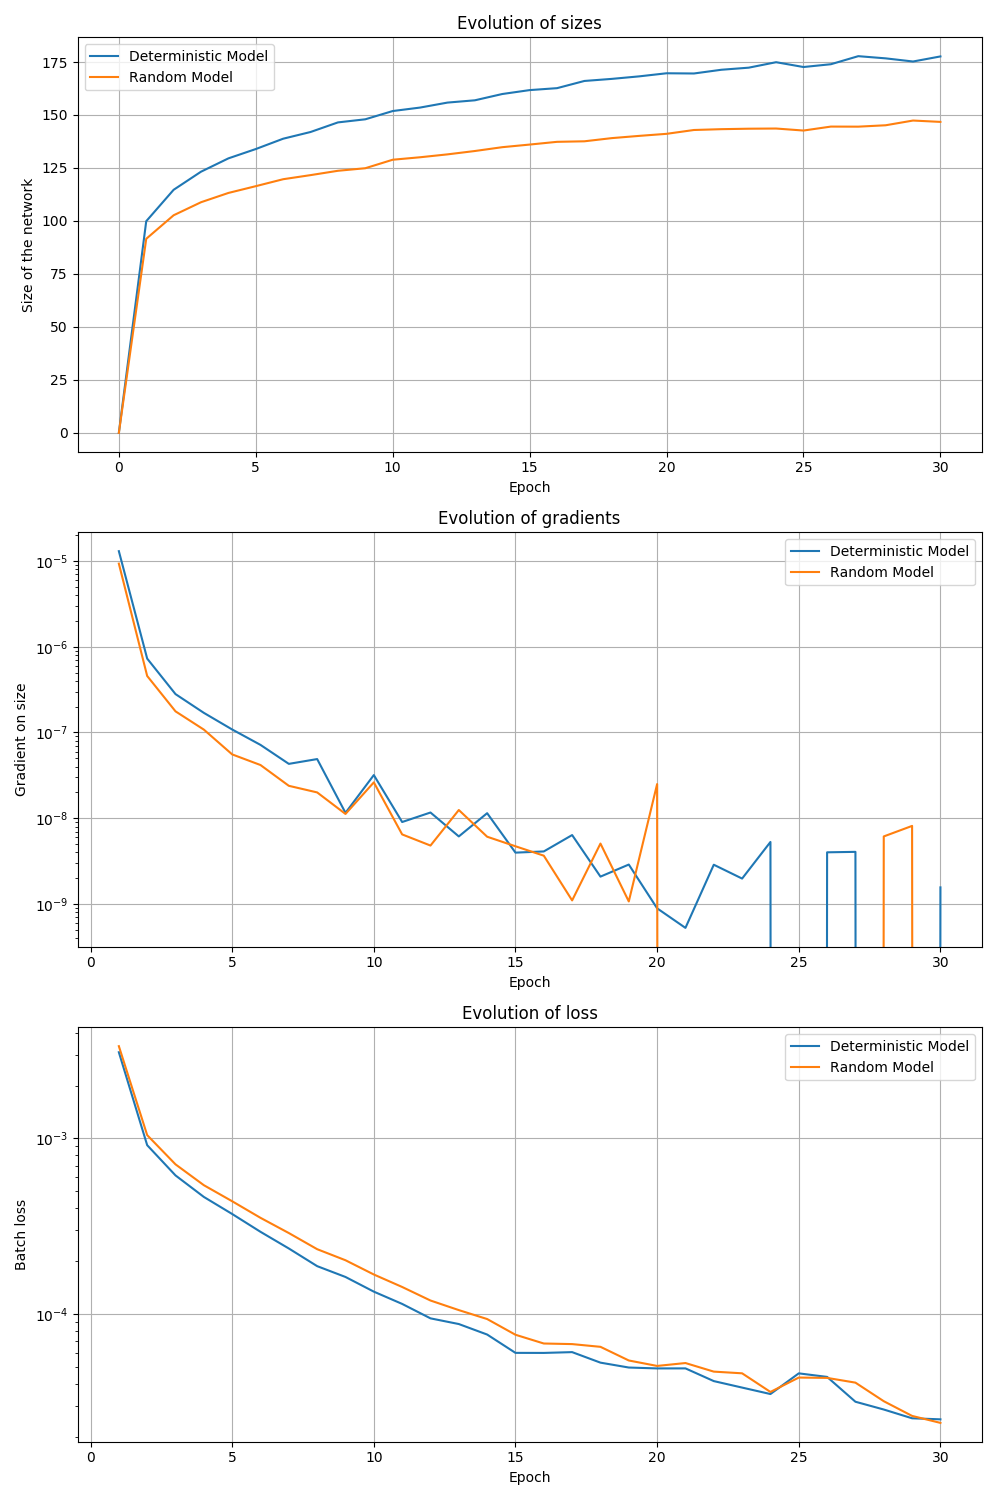
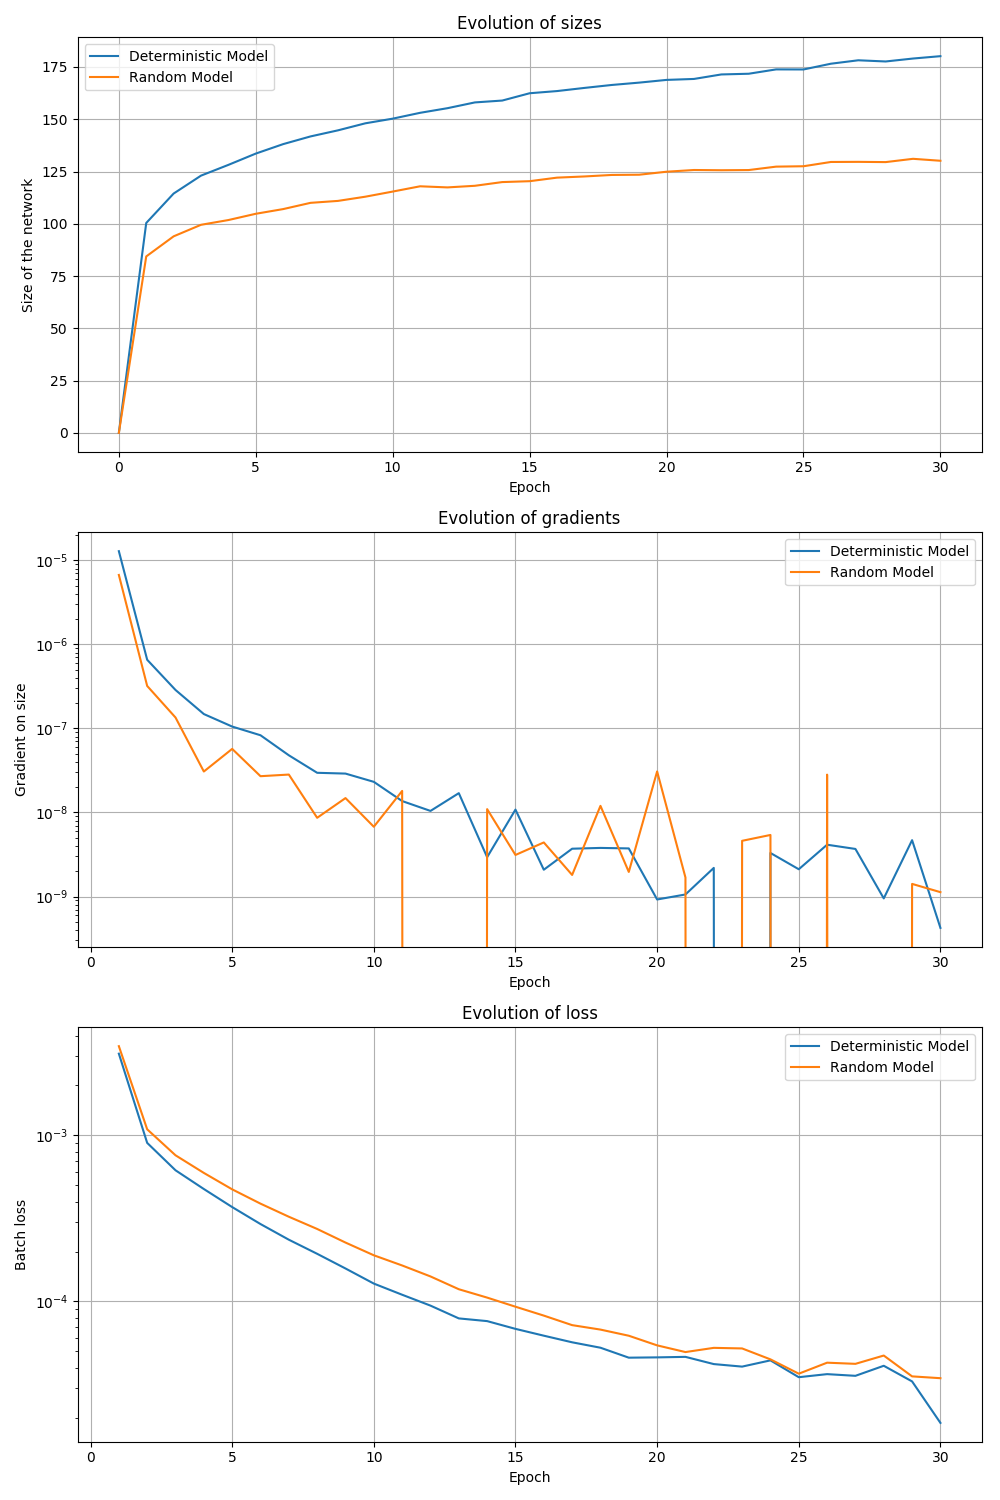
Add random comparison plots

diff --git a/simple_metricless.py b/simple_metricless.py
@@ -237,17 +237,6 @@ def benchmark_dataset(ds, l2_penalty=0.001, suffix='', test_train=False):
     simple_train([best_model], dl, EPOCHS)
     plot_frontier(powers, data, get_accuracy([best_model], dl2)[0], ds.__name__, suffix)
 
-def compare_convergence(ds):
-    dl = get_dl(ds)
-    replicas = 30
-    r = range(replicas)
-    simple_models = [MNIST_1h_flexible(500, wrap, 0).cuda() for _ in r]
-    random_models = [MNIST_1h_flexible_random(500, wrap, 0).cuda() for _ in r]
-    all_models = simple_models + random_models
-    result = train(all_models, dl, lamb=0, epochs=EPOCHS * 2, l2_penalty=0)
-    sizes, gradients, losses = [x.reshape(-1, 2, replicas).mean(axis=2).T for x in result]
-    return sizes, gradients, losses
-
 def plot_convergence_comparison(sizes, gradients, losses, prefix):
     sizes = np.insert(sizes, 0, 0, axis=1)
     epochs = list(range(1, sizes.shape[1]))
@@ -281,6 +270,18 @@ def plot_convergence_comparison(sizes, gradients, losses, prefix):
     plt.tight_layout()
     plt.savefig('./plots/%s_1h_deterministic_random_comparison.png' % prefix)
 
+def compare_convergence(ds):
+    dl = get_dl(ds)
+    replicas = 30
+    r = range(replicas)
+    simple_models = [MNIST_1h_flexible(500, wrap, 0).cuda() for _ in r]
+    random_models = [MNIST_1h_flexible_random(500, wrap, 0).cuda() for _ in r]
+    all_models = simple_models + random_models
+    result = train(all_models, dl, lamb=0, epochs=EPOCHS * 2, l2_penalty=0)
+    sizes, gradients, losses = [x.reshape(-1, 2, replicas).mean(axis=2).T for x in result]
+    plot_convergence_comparison(sizes, gradients, losses, ds.__name__)
+
+
 if __name__ == '__main__':
     # benchmark_dataset(MNIST)
     # benchmark_dataset(FashionMNIST)
@@ -290,5 +291,6 @@ if __name__ == '__main__':
     # benchmark_dataset(FashionMNIST, 0, '_without_penalty')
     # benchmark_dataset(MNIST, 0, '_without_penalty_training', True)
     # benchmark_dataset(FashionMNIST, 0, '_without_penalty_training', True)
-    # compare_convergence(MNIST)
+    compare_convergence(MNIST)
+    compare_convergence(FashionMNIST)
     pass

diff --git a/models/MNIST_1h_flexible_random.py b/models/MNIST_1h_flexible_random.py
@@ -12,7 +12,7 @@ FACTOR = np.log(EPSILON / (1 - EPSILON))
 class MNIST_1h_flexible_random(MNIST_1h_flexible):
 
     def get_scaler(self):
-        gray_zone_size = np.random.uniform(1, 30)
+        gray_zone_size = np.random.uniform(1, 20)
         k = float(-2 * FACTOR / gray_zone_size)
         return sigmoid(-k * (self.range - self.x_0))
 
